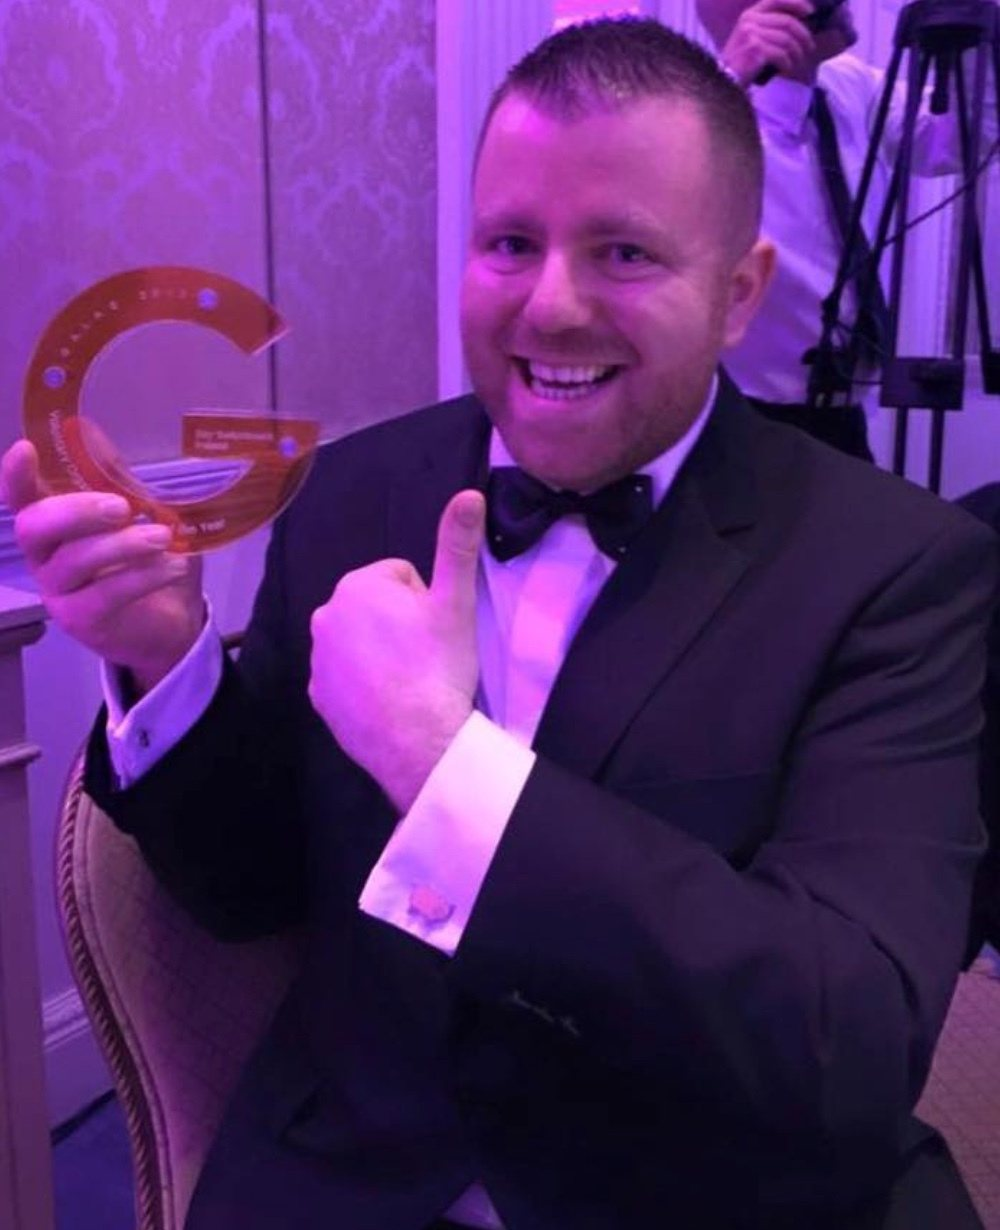
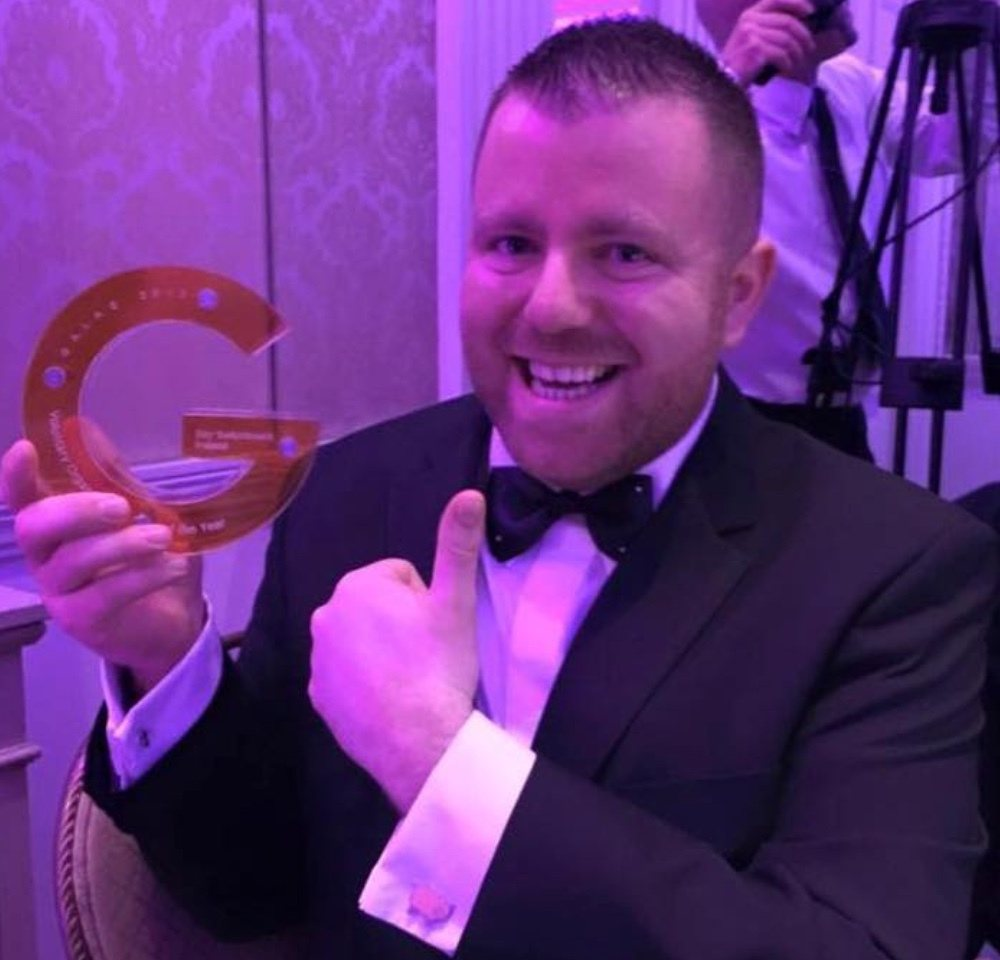
Education: crop award photo to head-to-cuff, 20% smaller
Claude-Session: https://claude.ai/code/session_015zks4kacudgbobiuvyfh1n

diff --git a/education.html b/education.html
@@ -41,7 +41,7 @@
         <p class="lead enter" style="--i:1">Leadership training, industry certifications and formal education.</p>
       </div>
       <figure class="enter" style="--i:2">
-        <img class="award-photo" src="images/education-award.jpg" width="1000" height="1230" alt="Paddy holding an award at a black-tie awards night" />
+        <img class="award-photo" src="images/education-award.jpg" width="1000" height="960" alt="Paddy holding an award at a black-tie awards night" />
       </figure>
     </div>
     </div>

diff --git a/style.css b/style.css
@@ -472,4 +472,4 @@ h1,h2{font-weight:600;letter-spacing:-0.04em}
 .bento .tile .tile-logo{max-width:100%}
 
 /* Education header photo: show the full portrait */
-.page-head-split img.award-photo{aspect-ratio:auto;height:auto;max-height:520px;width:auto;max-width:100%;margin-left:auto;object-fit:contain}
+.page-head-split img.award-photo{aspect-ratio:auto;height:auto;max-height:416px;width:auto;max-width:100%;margin-left:auto;object-fit:contain}
